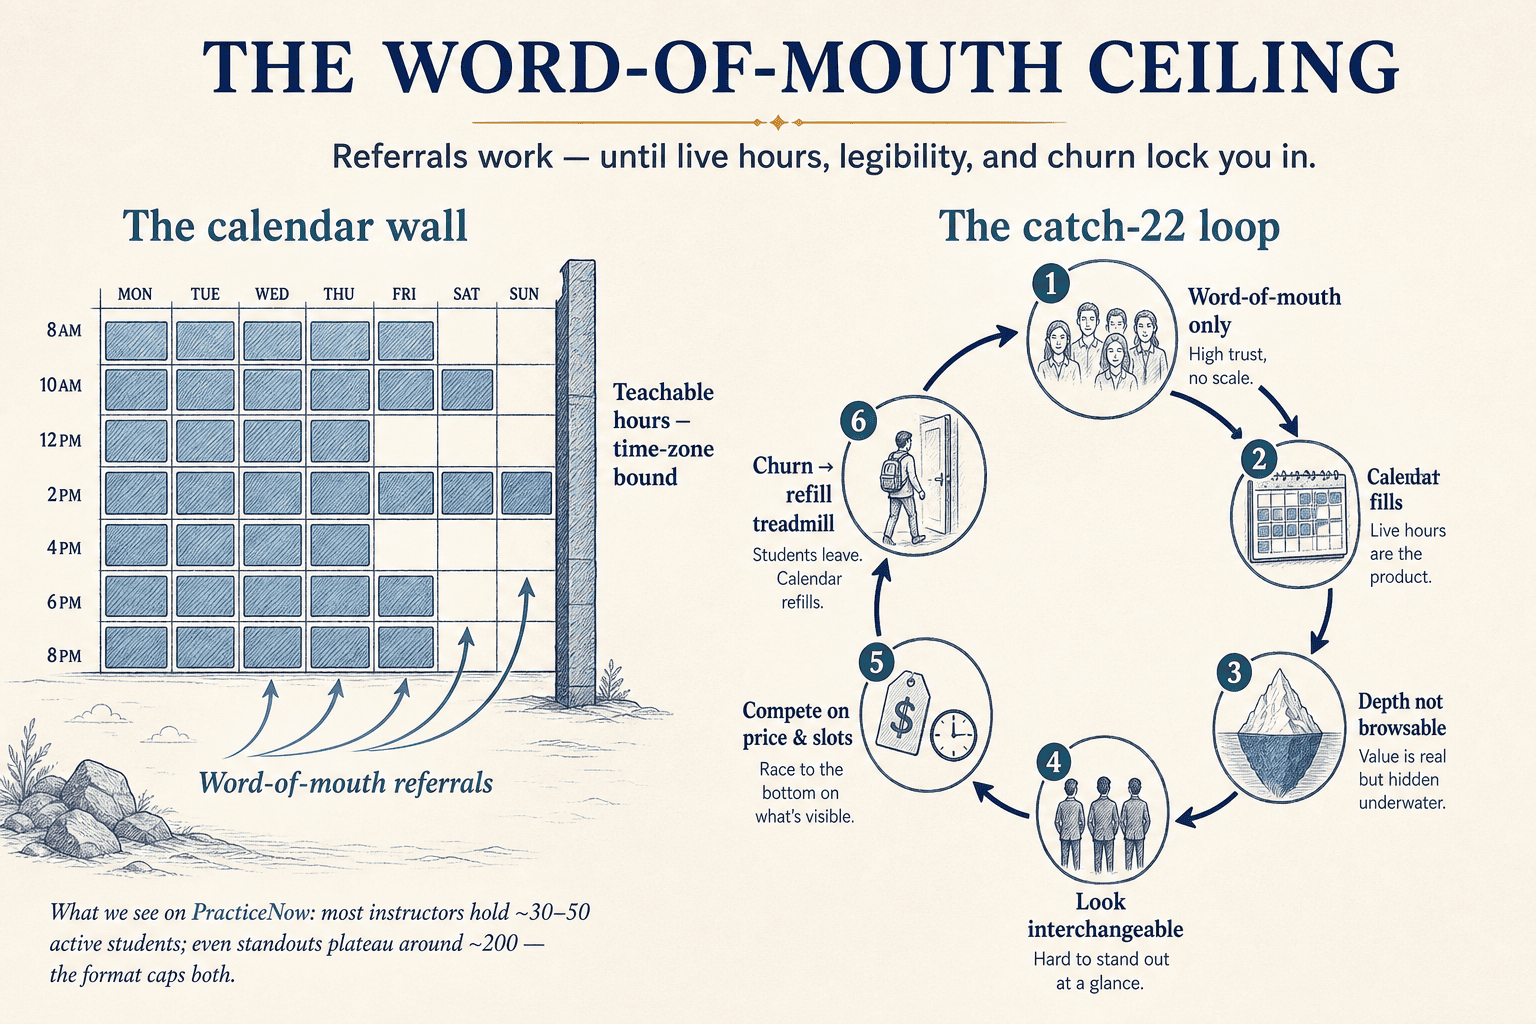
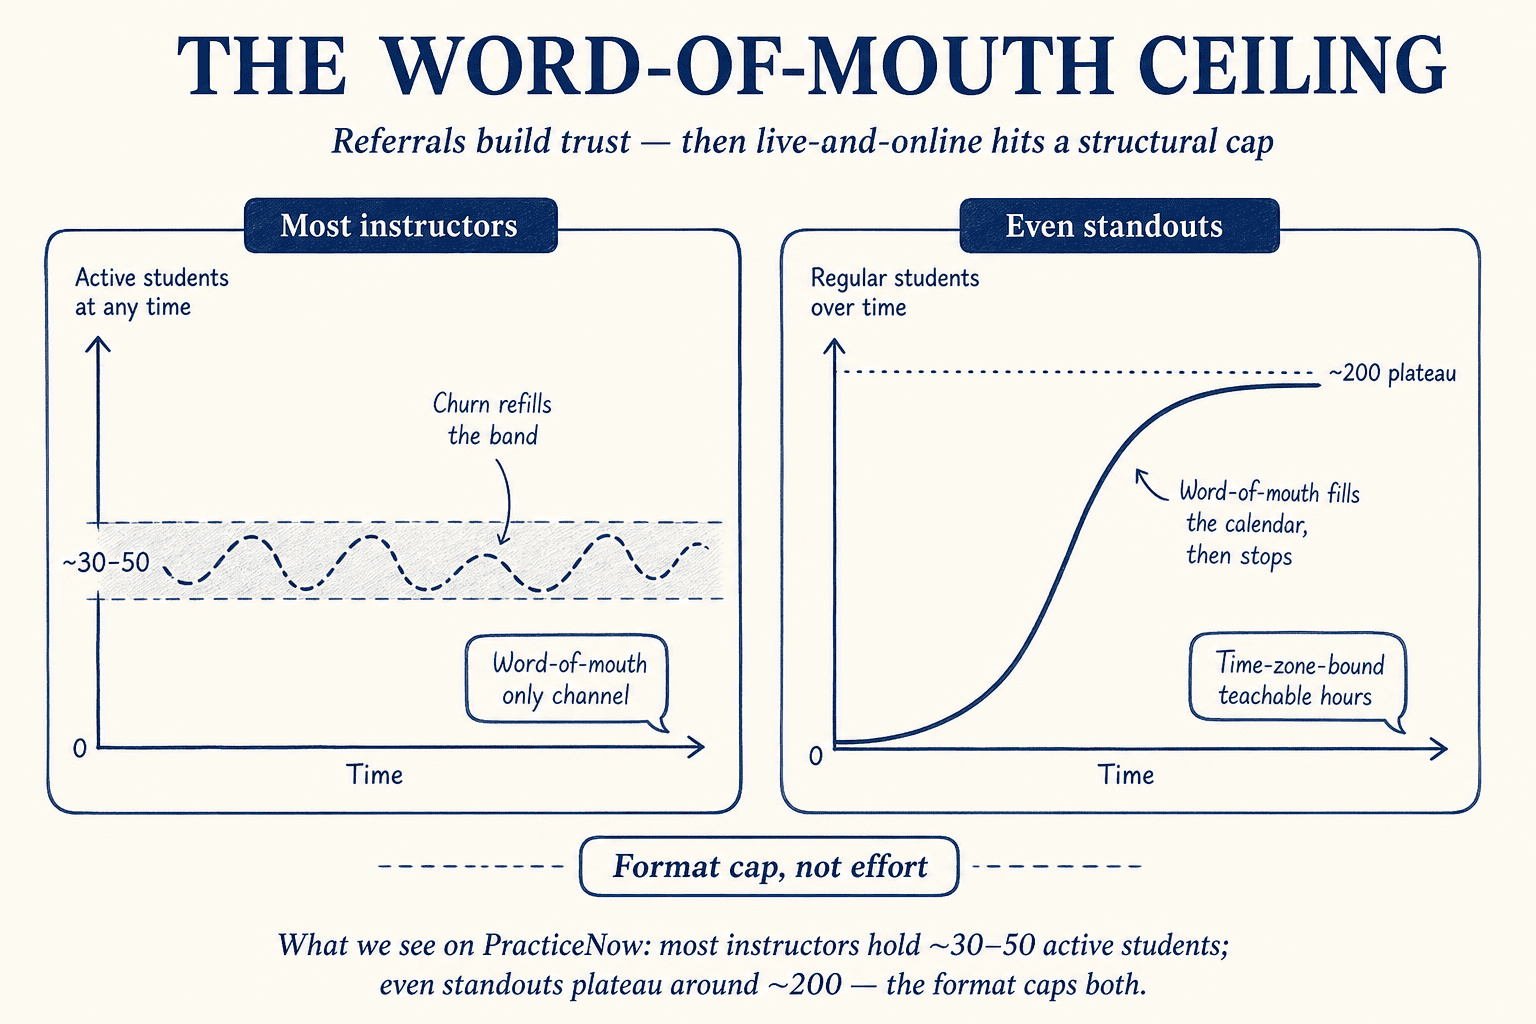
[Marketing][Thesis][Enhancement] Swap §2a/§2b figures — Respect Gap loop vs WOM graph
## Scope
- thesis-d01-respect-gap-loop.png: calendar wall + catch-22 loop, rebranded THE RESPECT GAP (§2a Figure 2).
- thesis-d02-word-of-mouth-ceiling.png: dual-panel graph separating 30–50 active band vs ~200 roster plateau (§2b Figure 3).
- Updated spark-thesis.md captions/alts and thesis-structure.json metadata.

## Testing / review notes
- node marketing/scripts/build-spark-thesis.js
- node marketing/scripts/test-spark-thesis-parity.js — parity OK (24 figures)

diff --git a/resources/spark-thesis.html b/resources/spark-thesis.html
@@ -1,6 +1,6 @@
 <!DOCTYPE html>
 <html lang="en">
-<!-- built from docs/marketing/thesis/spark-thesis.md via build-spark-thesis.js at 2026-07-07T05:14:41.558Z -->
+<!-- built from docs/marketing/thesis/spark-thesis.md via build-spark-thesis.js at 2026-07-07T05:24:57.527Z -->
 <head>
     <meta charset="UTF-8">
     <meta name="viewport" content="width=device-width, initial-scale=1.0">
@@ -131,13 +131,13 @@
                 <p>When depth is hidden, people reach for stand-ins: a known brand, an institution, a famous degree. In some fields that works — a surgeon's MD or a lawyer's degree from a top school carries the years behind it, legible at a glance. The Respect Gap bites hardest where no such ladder exists — where no title or alma mater can vouch for how far someone has gone, and the only way to see an instructor's mastery is to learn from them directly. Think of a yoga instructor, a guitar instructor, a chess coach, a home-cooking instructor, a portrait photographer, a ceramics instructor, a spoken English coach, a makeup artist, a fiction writer: the discipline <em>sounds</em> familiar at a glance, but the thousands of hours underneath stay invisible, with nothing official to point to.</p>
                 <p>My instructor had that depth. Her students saw her as competent in class — good at her job — but not as someone carrying rare mastery they should be in awe of. Not because she lacked skill, but because there was no brand or institution behind her name and almost nothing in the room made the <strong>range</strong> of what she had mastered browsable before you committed. The depth was there; it just wasn't <em>legible</em>. The same pattern shows up for the senior practitioner in an esoteric niche without a personal brand yet: the iceberg is often larger, and the waterline sits higher.</p>
                 <p>That invisibility sets a trap — a loop that tightens the longer it runs. An instructor whose depth nobody can see is under-recognized; an under-recognized instructor's students half-listen; half-listening produces poorer results; poorer results lead to churn; and churn puts the instructor back on the treadmill of refilling the calendar. Still no bandwidth to make the submerged depth visible. Lose-lose.</p>
-                <figure class="thesis-figure"><img src="images/thesis/thesis-d01-respect-gap-loop.png" alt="Respect Gap vicious cycle — depth invisible leads to under-recognition, half-listening, churn, and calendar treadmill." loading="lazy" decoding="async" width="1536" height="1024" /><figcaption><strong>Figure 2 — The Respect Gap cycle.</strong> When depth stays invisible, recognition never forms — students half-listen, results slip, churn refills the calendar, and there is no bandwidth left to make mastery browsable.</figcaption></figure>
+                <figure class="thesis-figure"><img src="images/thesis/thesis-d01-respect-gap-loop.png" alt="Respect Gap — calendar fills via referrals until teachable hours cap growth; catch-22 loop when depth stays invisible." loading="lazy" decoding="async" width="1536" height="1024" /><figcaption><strong>Figure 2 — The Respect Gap trap.</strong> Depth stays invisible, so students half-listen and churn refills the calendar — with no bandwidth left to make mastery browsable. Referrals fill live hours until the clock runs out; then the loop tightens.</figcaption></figure>
                 <p>This is the <strong>Respect Gap</strong>: the distance between how much a great instructor is <em>worth</em> and how much the world can <em>see</em> they're worth — the gap between the iceberg's tip and its true mass. Spark's job is to help an instructor <strong>showcase their mastery</strong> — to make the depth visible — so respect is earned on the merits, and once it is, students learn more. Spark exists to close it.</p>
                 <h3 id="word-of-mouth-ceiling">2b. The Word-of-Mouth Ceiling</h3>
                 <p>The Respect Gap is psychological. Its twin is structural, and just as suffocating.</p>
                 <p>For most online live instructors we've worked with on PracticeNow, word of mouth is the only real marketing channel — a wonderful one, high trust and zero cost, but with a hard ceiling. We've watched the same pattern again and again: the very best instructors plateau around a couple of hundred regular students; most hover at thirty to fifty, churning constantly.</p>
                 <p>This is not bad luck; it's the math of the format. Live and online means <strong>time-zone-bound</strong> — there are only so many teachable hours that overlap with an instructor's waking day. Because the offering is never <em>productized</em>, it can't scale past the instructor's own clock. And because the instructor's real strengths — the submerged part of the iceberg — are <strong>locked away</strong> where students can't browse them, they have almost nothing to brand themselves with. So they end up looking like everyone else, which means they can't credibly claim a niche, which means they compete on price and availability — the very things their format makes scarce. A catch-22. <em>(For the economics underneath this ceiling — how steeply creator income skews — see the <a href="#appendix-market">appendix</a>.)</em></p>
-                <figure class="thesis-figure"><img src="images/thesis/thesis-d02-word-of-mouth-ceiling.png" alt="Calendar fills with referrals until teachable hours cap growth; circular catch-22 loop for word-of-mouth-only live teaching." loading="lazy" decoding="async" width="1536" height="1024" /><figcaption><strong>Figure 3 — The Word-of-Mouth Ceiling.</strong> Referrals fill the calendar until teachable hours run out — then depth stays hidden, instructors look interchangeable, and churn keeps most in a narrow band. The limit is the format, not the effort.</figcaption></figure>
+                <figure class="thesis-figure"><img src="images/thesis/thesis-d02-word-of-mouth-ceiling.png" alt="Dual-panel graph — most instructors churn in a 30–50 active-student band; even standouts plateau around 200 regular students." loading="lazy" decoding="async" width="1536" height="1024" /><figcaption><strong>Figure 3 — The Word-of-Mouth Ceiling.</strong> Most instructors hover at thirty to fifty active students, churning constantly; even the best plateau around a couple of hundred regular students. Two patterns, one structural cap — the live format, not the effort.</figcaption></figure>
                 <p>And here's the cruelty of it: content alone doesn't rescue them. When teaching is shipped as undifferentiated information — a recording, a link, a PDF — people don't finish it. Across hundreds of large online courses, median completion runs in the low double digits and averages have been measured as low as ~6.5% <button type="button" class="whitepaper-cite-ref" data-cite-id="3" aria-expanded="false" aria-haspopup="dialog" aria-label="Citation source 3">[3]</button>. Information, dumped, doesn't transform anyone. Which is the hinge of this entire paper.</p>
                 <p>There's a quieter loss beneath that. In a regular class, most instructors teach the layer the majority of students showed up for — the shallow end of a deep well. The material that took years to earn tends to surface only now and then, in the occasional workshop or masterclass, for the smaller group who want to go deep — and once it's over, it disappears the same way — another recording, a link, a PDF that almost nobody opens again. Yet even the students who only ever wanted the shallow end learn better <em>knowing</em> the depth is there: it's the difference between being shown a step and being shown a step by someone who has walked the whole road. So the depth that would earn respect is both hard to see <em>and</em> rarely shipped.</p>
                 <p>There is a way out of both traps, and it is a single move: stop selling only live hours — capped by the clock — and turn the teaching itself into something that stands on its own and scales, without losing the depth or the instructor's voice. To <strong>productize</strong> your teaching in this way is how you break the Word-of-Mouth Ceiling. It is what the rest of this paper is about, and Spark is the bridge that gets an instructor there.</p>

diff --git a/resources/.golden/spark-thesis.body-main.html b/resources/.golden/spark-thesis.body-main.html
@@ -36,13 +36,13 @@
                 <p>When depth is hidden, people reach for stand-ins: a known brand, an institution, a famous degree. In some fields that works — a surgeon's MD or a lawyer's degree from a top school carries the years behind it, legible at a glance. The Respect Gap bites hardest where no such ladder exists — where no title or alma mater can vouch for how far someone has gone, and the only way to see an instructor's mastery is to learn from them directly. Think of a yoga instructor, a guitar instructor, a chess coach, a home-cooking instructor, a portrait photographer, a ceramics instructor, a spoken English coach, a makeup artist, a fiction writer: the discipline <em>sounds</em> familiar at a glance, but the thousands of hours underneath stay invisible, with nothing official to point to.</p>
                 <p>My instructor had that depth. Her students saw her as competent in class — good at her job — but not as someone carrying rare mastery they should be in awe of. Not because she lacked skill, but because there was no brand or institution behind her name and almost nothing in the room made the <strong>range</strong> of what she had mastered browsable before you committed. The depth was there; it just wasn't <em>legible</em>. The same pattern shows up for the senior practitioner in an esoteric niche without a personal brand yet: the iceberg is often larger, and the waterline sits higher.</p>
                 <p>That invisibility sets a trap — a loop that tightens the longer it runs. An instructor whose depth nobody can see is under-recognized; an under-recognized instructor's students half-listen; half-listening produces poorer results; poorer results lead to churn; and churn puts the instructor back on the treadmill of refilling the calendar. Still no bandwidth to make the submerged depth visible. Lose-lose.</p>
-                <figure class="thesis-figure"><img src="images/thesis/thesis-d01-respect-gap-loop.png" alt="Respect Gap vicious cycle — depth invisible leads to under-recognition, half-listening, churn, and calendar treadmill." loading="lazy" decoding="async" width="1536" height="1024" /><figcaption><strong>Figure 2 — The Respect Gap cycle.</strong> When depth stays invisible, recognition never forms — students half-listen, results slip, churn refills the calendar, and there is no bandwidth left to make mastery browsable.</figcaption></figure>
+                <figure class="thesis-figure"><img src="images/thesis/thesis-d01-respect-gap-loop.png" alt="Respect Gap — calendar fills via referrals until teachable hours cap growth; catch-22 loop when depth stays invisible." loading="lazy" decoding="async" width="1536" height="1024" /><figcaption><strong>Figure 2 — The Respect Gap trap.</strong> Depth stays invisible, so students half-listen and churn refills the calendar — with no bandwidth left to make mastery browsable. Referrals fill live hours until the clock runs out; then the loop tightens.</figcaption></figure>
                 <p>This is the <strong>Respect Gap</strong>: the distance between how much a great instructor is <em>worth</em> and how much the world can <em>see</em> they're worth — the gap between the iceberg's tip and its true mass. Spark's job is to help an instructor <strong>showcase their mastery</strong> — to make the depth visible — so respect is earned on the merits, and once it is, students learn more. Spark exists to close it.</p>
                 <h3 id="word-of-mouth-ceiling">2b. The Word-of-Mouth Ceiling</h3>
                 <p>The Respect Gap is psychological. Its twin is structural, and just as suffocating.</p>
                 <p>For most online live instructors we've worked with on PracticeNow, word of mouth is the only real marketing channel — a wonderful one, high trust and zero cost, but with a hard ceiling. We've watched the same pattern again and again: the very best instructors plateau around a couple of hundred regular students; most hover at thirty to fifty, churning constantly.</p>
                 <p>This is not bad luck; it's the math of the format. Live and online means <strong>time-zone-bound</strong> — there are only so many teachable hours that overlap with an instructor's waking day. Because the offering is never <em>productized</em>, it can't scale past the instructor's own clock. And because the instructor's real strengths — the submerged part of the iceberg — are <strong>locked away</strong> where students can't browse them, they have almost nothing to brand themselves with. So they end up looking like everyone else, which means they can't credibly claim a niche, which means they compete on price and availability — the very things their format makes scarce. A catch-22. <em>(For the economics underneath this ceiling — how steeply creator income skews — see the <a href="#appendix-market">appendix</a>.)</em></p>
-                <figure class="thesis-figure"><img src="images/thesis/thesis-d02-word-of-mouth-ceiling.png" alt="Calendar fills with referrals until teachable hours cap growth; circular catch-22 loop for word-of-mouth-only live teaching." loading="lazy" decoding="async" width="1536" height="1024" /><figcaption><strong>Figure 3 — The Word-of-Mouth Ceiling.</strong> Referrals fill the calendar until teachable hours run out — then depth stays hidden, instructors look interchangeable, and churn keeps most in a narrow band. The limit is the format, not the effort.</figcaption></figure>
+                <figure class="thesis-figure"><img src="images/thesis/thesis-d02-word-of-mouth-ceiling.png" alt="Dual-panel graph — most instructors churn in a 30–50 active-student band; even standouts plateau around 200 regular students." loading="lazy" decoding="async" width="1536" height="1024" /><figcaption><strong>Figure 3 — The Word-of-Mouth Ceiling.</strong> Most instructors hover at thirty to fifty active students, churning constantly; even the best plateau around a couple of hundred regular students. Two patterns, one structural cap — the live format, not the effort.</figcaption></figure>
                 <p>And here's the cruelty of it: content alone doesn't rescue them. When teaching is shipped as undifferentiated information — a recording, a link, a PDF — people don't finish it. Across hundreds of large online courses, median completion runs in the low double digits and averages have been measured as low as ~6.5% <button type="button" class="whitepaper-cite-ref" data-cite-id="3" aria-expanded="false" aria-haspopup="dialog" aria-label="Citation source 3">[3]</button>. Information, dumped, doesn't transform anyone. Which is the hinge of this entire paper.</p>
                 <p>There's a quieter loss beneath that. In a regular class, most instructors teach the layer the majority of students showed up for — the shallow end of a deep well. The material that took years to earn tends to surface only now and then, in the occasional workshop or masterclass, for the smaller group who want to go deep — and once it's over, it disappears the same way — another recording, a link, a PDF that almost nobody opens again. Yet even the students who only ever wanted the shallow end learn better <em>knowing</em> the depth is there: it's the difference between being shown a step and being shown a step by someone who has walked the whole road. So the depth that would earn respect is both hard to see <em>and</em> rarely shipped.</p>
                 <p>There is a way out of both traps, and it is a single move: stop selling only live hours — capped by the clock — and turn the teaching itself into something that stands on its own and scales, without losing the depth or the instructor's voice. To <strong>productize</strong> your teaching in this way is how you break the Word-of-Mouth Ceiling. It is what the rest of this paper is about, and Spark is the bridge that gets an instructor there.</p>

diff --git a/resources/.golden/spark-thesis.body.html b/resources/.golden/spark-thesis.body.html
@@ -36,13 +36,13 @@
                 <p>When depth is hidden, people reach for stand-ins: a known brand, an institution, a famous degree. In some fields that works — a surgeon's MD or a lawyer's degree from a top school carries the years behind it, legible at a glance. The Respect Gap bites hardest where no such ladder exists — where no title or alma mater can vouch for how far someone has gone, and the only way to see an instructor's mastery is to learn from them directly. Think of a yoga instructor, a guitar instructor, a chess coach, a home-cooking instructor, a portrait photographer, a ceramics instructor, a spoken English coach, a makeup artist, a fiction writer: the discipline <em>sounds</em> familiar at a glance, but the thousands of hours underneath stay invisible, with nothing official to point to.</p>
                 <p>My instructor had that depth. Her students saw her as competent in class — good at her job — but not as someone carrying rare mastery they should be in awe of. Not because she lacked skill, but because there was no brand or institution behind her name and almost nothing in the room made the <strong>range</strong> of what she had mastered browsable before you committed. The depth was there; it just wasn't <em>legible</em>. The same pattern shows up for the senior practitioner in an esoteric niche without a personal brand yet: the iceberg is often larger, and the waterline sits higher.</p>
                 <p>That invisibility sets a trap — a loop that tightens the longer it runs. An instructor whose depth nobody can see is under-recognized; an under-recognized instructor's students half-listen; half-listening produces poorer results; poorer results lead to churn; and churn puts the instructor back on the treadmill of refilling the calendar. Still no bandwidth to make the submerged depth visible. Lose-lose.</p>
-                <figure class="thesis-figure"><img src="images/thesis/thesis-d01-respect-gap-loop.png" alt="Respect Gap vicious cycle — depth invisible leads to under-recognition, half-listening, churn, and calendar treadmill." loading="lazy" decoding="async" width="1536" height="1024" /><figcaption><strong>Figure 2 — The Respect Gap cycle.</strong> When depth stays invisible, recognition never forms — students half-listen, results slip, churn refills the calendar, and there is no bandwidth left to make mastery browsable.</figcaption></figure>
+                <figure class="thesis-figure"><img src="images/thesis/thesis-d01-respect-gap-loop.png" alt="Respect Gap — calendar fills via referrals until teachable hours cap growth; catch-22 loop when depth stays invisible." loading="lazy" decoding="async" width="1536" height="1024" /><figcaption><strong>Figure 2 — The Respect Gap trap.</strong> Depth stays invisible, so students half-listen and churn refills the calendar — with no bandwidth left to make mastery browsable. Referrals fill live hours until the clock runs out; then the loop tightens.</figcaption></figure>
                 <p>This is the <strong>Respect Gap</strong>: the distance between how much a great instructor is <em>worth</em> and how much the world can <em>see</em> they're worth — the gap between the iceberg's tip and its true mass. Spark's job is to help an instructor <strong>showcase their mastery</strong> — to make the depth visible — so respect is earned on the merits, and once it is, students learn more. Spark exists to close it.</p>
                 <h3 id="word-of-mouth-ceiling">2b. The Word-of-Mouth Ceiling</h3>
                 <p>The Respect Gap is psychological. Its twin is structural, and just as suffocating.</p>
                 <p>For most online live instructors we've worked with on PracticeNow, word of mouth is the only real marketing channel — a wonderful one, high trust and zero cost, but with a hard ceiling. We've watched the same pattern again and again: the very best instructors plateau around a couple of hundred regular students; most hover at thirty to fifty, churning constantly.</p>
                 <p>This is not bad luck; it's the math of the format. Live and online means <strong>time-zone-bound</strong> — there are only so many teachable hours that overlap with an instructor's waking day. Because the offering is never <em>productized</em>, it can't scale past the instructor's own clock. And because the instructor's real strengths — the submerged part of the iceberg — are <strong>locked away</strong> where students can't browse them, they have almost nothing to brand themselves with. So they end up looking like everyone else, which means they can't credibly claim a niche, which means they compete on price and availability — the very things their format makes scarce. A catch-22. <em>(For the economics underneath this ceiling — how steeply creator income skews — see the <a href="#appendix-market">appendix</a>.)</em></p>
-                <figure class="thesis-figure"><img src="images/thesis/thesis-d02-word-of-mouth-ceiling.png" alt="Calendar fills with referrals until teachable hours cap growth; circular catch-22 loop for word-of-mouth-only live teaching." loading="lazy" decoding="async" width="1536" height="1024" /><figcaption><strong>Figure 3 — The Word-of-Mouth Ceiling.</strong> Referrals fill the calendar until teachable hours run out — then depth stays hidden, instructors look interchangeable, and churn keeps most in a narrow band. The limit is the format, not the effort.</figcaption></figure>
+                <figure class="thesis-figure"><img src="images/thesis/thesis-d02-word-of-mouth-ceiling.png" alt="Dual-panel graph — most instructors churn in a 30–50 active-student band; even standouts plateau around 200 regular students." loading="lazy" decoding="async" width="1536" height="1024" /><figcaption><strong>Figure 3 — The Word-of-Mouth Ceiling.</strong> Most instructors hover at thirty to fifty active students, churning constantly; even the best plateau around a couple of hundred regular students. Two patterns, one structural cap — the live format, not the effort.</figcaption></figure>
                 <p>And here's the cruelty of it: content alone doesn't rescue them. When teaching is shipped as undifferentiated information — a recording, a link, a PDF — people don't finish it. Across hundreds of large online courses, median completion runs in the low double digits and averages have been measured as low as ~6.5% <button type="button" class="whitepaper-cite-ref" data-cite-id="3" aria-expanded="false" aria-haspopup="dialog" aria-label="Citation source 3">[3]</button>. Information, dumped, doesn't transform anyone. Which is the hinge of this entire paper.</p>
                 <p>There's a quieter loss beneath that. In a regular class, most instructors teach the layer the majority of students showed up for — the shallow end of a deep well. The material that took years to earn tends to surface only now and then, in the occasional workshop or masterclass, for the smaller group who want to go deep — and once it's over, it disappears the same way — another recording, a link, a PDF that almost nobody opens again. Yet even the students who only ever wanted the shallow end learn better <em>knowing</em> the depth is there: it's the difference between being shown a step and being shown a step by someone who has walked the whole road. So the depth that would earn respect is both hard to see <em>and</em> rarely shipped.</p>
                 <p>There is a way out of both traps, and it is a single move: stop selling only live hours — capped by the clock — and turn the teaching itself into something that stands on its own and scales, without losing the depth or the instructor's voice. To <strong>productize</strong> your teaching in this way is how you break the Word-of-Mouth Ceiling. It is what the rest of this paper is about, and Spark is the bridge that gets an instructor there.</p>